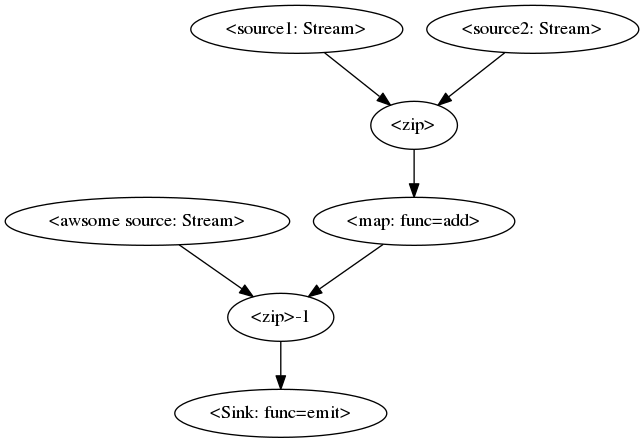
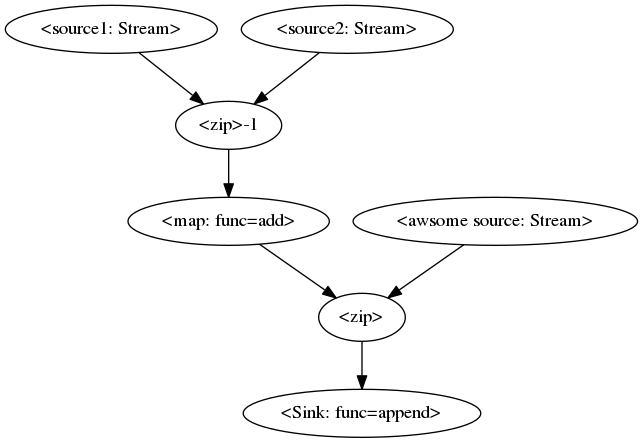
CI: add networkx

diff --git a/examples/plot_graph.py b/examples/plot_graph.py
@@ -10,7 +10,7 @@ source3 = Stream(name='awsome source')
 n1 = source1.zip(source2)
 n2 = n1.map(add)
 n3 = n2.zip(source3)
-n3.sink(source1.emit)
+L = n3.sink_to_list()
 
 plot_graph(n2, file='example_graph.png')
 plot_graph(n2, nx.spring_layout)
